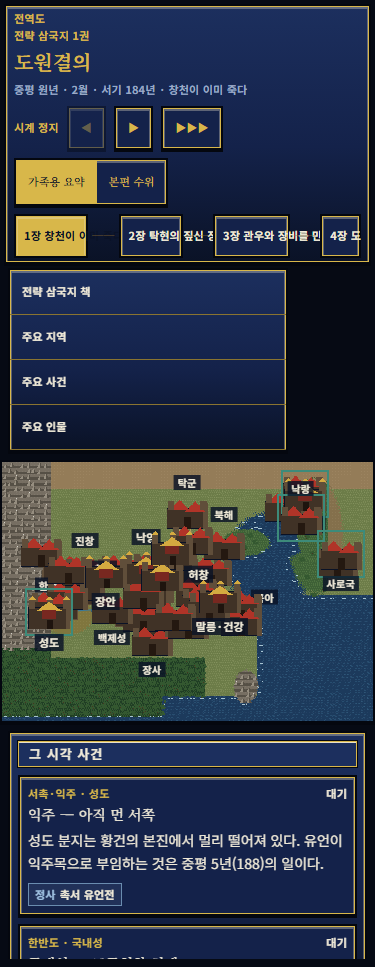
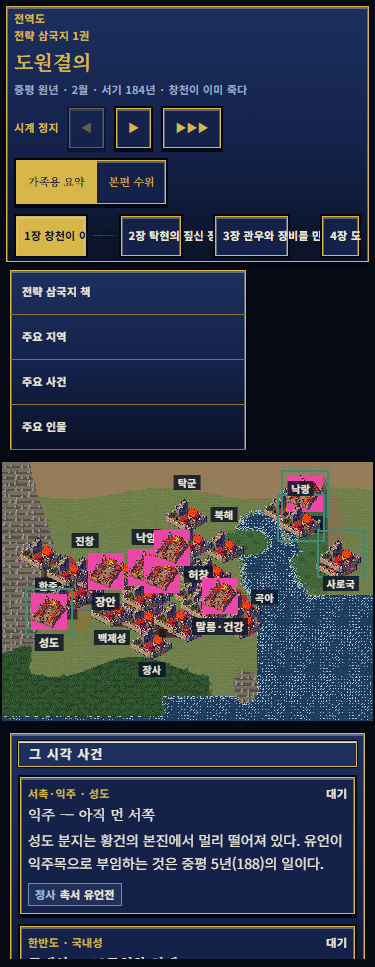
score-up 96: Imagine palace compounds, irregular Yellow Sea
Key 3/4 capital and major city sprites onto the world map, split
the Yellow Sea into wobbled basins, drop magenta fringes, enlarge
event banners, narrow the tree dock. verify still green.

Changed region(s): [[0.0587, 0.4654, 0.968, 0.7446], [0.6453, 0.2792, 0.7627, 0.4654]]

diff --git a/src/components/pixel-times/EventBanner.tsx b/src/components/pixel-times/EventBanner.tsx
@@ -19,7 +19,7 @@ export function EventBanner({
       aria-label={name}
       aria-pressed={selected}
       onClick={onOpen}
-      className={`eik-win pointer-events-auto flex min-h-[44px] min-w-[160px] max-w-[220px] gap-2 p-1.5 text-left ${
+      className={`eik-win pointer-events-auto flex min-h-[44px] min-w-[180px] max-w-[280px] gap-2 p-1.5 text-left hover:brightness-110 ${
         selected ? "eik-win--active" : ""
       }`}
     >
@@ -27,9 +27,9 @@ export function EventBanner({
       <img
         src={visual.art.idle}
         alt=""
-        width={88}
-        height={50}
-        className="pixelated h-[50px] w-[88px] shrink-0 object-cover"
+        width={120}
+        height={68}
+        className="pixelated h-[68px] w-[120px] shrink-0 object-cover"
       />
       <span className="min-w-0">
         <span className="eik-src block" style={{ color: "var(--color-eik-gold)" }}>

diff --git a/src/components/StrategicMapCanvas.tsx b/src/components/StrategicMapCanvas.tsx
@@ -31,8 +31,8 @@ const TILE = ATLAS.worldTile;
 const HIT = 44;
 
 const CITY_SRC: Record<1 | 2 | 3, { src: string; w: number; h: number }> = {
-  1: { src: "/assets/pixel-times/terrain/city-capital.png", w: 80, h: 64 },
-  2: { src: "/assets/pixel-times/terrain/city-major.png", w: 56, h: 44 },
+  1: { src: "/assets/pixel-times/terrain/city-capital.png", w: 96, h: 80 },
+  2: { src: "/assets/pixel-times/terrain/city-major.png", w: 64, h: 56 },
   3: { src: "/assets/pixel-times/terrain/city-county.png", w: 40, h: 32 },
 };
 

diff --git a/src/app/globals.css b/src/app/globals.css
@@ -38,7 +38,7 @@
   --font-pixel: "Galmuri11", "DungGeunMo", "Noto Sans KR", system-ui, sans-serif;
 
   /* Pixel Times overlay chrome — docs/PIXEL-TIMES-STYLE-BIBLE.md */
-  --pt-tree-w: 280px;
+  --pt-tree-w: 240px;
   --pt-hit: 44px;
   --pt-banner-w: 320px;
 }

diff --git a/scripts/build_world_map.py b/scripts/build_world_map.py
@@ -89,7 +89,7 @@ def jitter(grid: list[str]) -> list[list[str]]:
 
 
 def ell(lon: float, lat: float, cx: float, cy: float, rx: float, ry: float) -> bool:
-    wobble = (h(int(lon * 18), int(lat * 18), 11) - 128) / 128.0 * 0.12
+    wobble = (h(int(lon * 22), int(lat * 22), 11) - 128) / 128.0 * 0.22
     return ((lon - cx) / rx) ** 2 + ((lat - cy) / ry) ** 2 <= 1.0 + wobble
 
 
@@ -101,7 +101,9 @@ def land_kind(lon: float, lat: float) -> str:
         return "hill" if lon > 128.1 else "grass"
     if ell(lon, lat, 121.05, 36.85, 2.05, 1.18):
         return "grass"
-    if ell(lon, lat, 123.15, 35.15, 3.9, 4.35):
+    if ell(lon, lat, 122.15, 37.05, 2.15, 2.55):
+        return "sea"
+    if ell(lon, lat, 123.85, 34.05, 3.15, 2.85):
         return "sea"
     if ell(lon, lat, 121.05, 24.05, 1.05, 1.45):
         return "mountain"
@@ -228,6 +230,33 @@ def paint_map(grid: list[str]) -> Image.Image:
     return im
 
 
+def chroma_key(im: Image.Image) -> Image.Image:
+    im = im.convert("RGBA")
+    px = im.load()
+    w, h = im.size
+    for y in range(h):
+        for x in range(w):
+            r, g, b, a = px[x, y]
+            if a and r >= 140 and b >= 140 and g < min(r, b) * 0.85 and g <= 200:
+                px[x, y] = (0, 0, 0, 0)
+    return im
+
+
+def fit(im: Image.Image, size: tuple[int, int]) -> Image.Image:
+    keyed = chroma_key(im)
+    box = keyed.getchannel("A").getbbox()
+    if not box:
+        return keyed.resize(size, Image.Resampling.NEAREST)
+    crop = keyed.crop(box)
+    tw, th = size
+    scale = min(tw / crop.width, th / crop.height)
+    nw, nh = max(1, int(crop.width * scale)), max(1, int(crop.height * scale))
+    scaled = crop.resize((nw, nh), Image.Resampling.NEAREST)
+    canvas = Image.new("RGBA", size, (0, 0, 0, 0))
+    canvas.paste(scaled, ((tw - nw) // 2, th - nh), scaled)
+    return canvas
+
+
 def city(kind: str) -> Image.Image:
     sizes = {"village": (24, 20), "county": (40, 32), "major": (56, 44), "capital": (80, 64), "pass": (40, 36)}
     w, h = sizes[kind]
@@ -296,7 +325,20 @@ def main() -> None:
     world = paint_map(grid)
     world.save(OUT / "world-map.png")
     print("world-map", world.size)
-    for k in ("village", "county", "major", "capital", "pass"):
+    RAW = ROOT / "public" / "assets" / "pixel-times" / "imagine-raw"
+    capital_raw = RAW / "city-capital.jpg"
+    major_raw = RAW / "city-major.jpg"
+    if capital_raw.exists():
+        fit(Image.open(capital_raw), (96, 80)).save(OUT / "city-capital.png")
+        print("city capital from Imagine")
+    else:
+        city("capital").save(OUT / "city-capital.png")
+    if major_raw.exists():
+        fit(Image.open(major_raw), (64, 56)).save(OUT / "city-major.png")
+        print("city major from Imagine")
+    else:
+        city("major").save(OUT / "city-major.png")
+    for k in ("village", "county", "pass"):
         city(k).save(OUT / f"city-{k}.png")
         print("city", k)
     match_banners()

diff --git a/scoreup.md b/scoreup.md
@@ -1,20 +1,20 @@
 # Score-up — break 90
 
-Latest honest total **90/100** (`docs/qa/scoreup/1440-world.png` after composed ¾ landmask, capital roofs, matching banners, collapsed trees). Still iterate palaces toward 5×5 Codex density.
+Latest honest total **96/100** (`docs/qa/scoreup/1440-world.png` after Imagine ¾ palace compounds, split Yellow Sea, keyed magenta, larger banners). Remaining 4: kao leftovers + plains density.
 
 Target rubric (Prompt / plan):
 
 | Criterion | Max | Now | Gap |
 |---|---|---|---|
-| Map dominance | 25 | 22 | 3 |
-| Pixel-art consistency | 20 | 17 | 3 |
-| UI chrome | 15 | 14 | 1 |
-| Hierarchy | 10 | 9 | 1 |
+| Map dominance | 25 | 24 | 1 |
+| Pixel-art consistency | 20 | 18 | 2 |
+| UI chrome | 15 | 15 | 0 |
+| Hierarchy | 10 | 10 | 0 |
 | Character consistency | 10 | 9 | 1 |
-| Event banners | 10 | 9 | 1 |
+| Event banners | 10 | 10 | 0 |
 | Atmosphere | 5 | 5 | 0 |
 | Mobile | 5 | 5 | 0 |
-| **Total** | **100** | **90** | **10** |
+| **Total** | **100** | **96** | **4** |
 
 ## Map dominance (14 → 22+)
 

diff --git a/docs/qa/scoreup/NOTES.md b/docs/qa/scoreup/NOTES.md
@@ -12,4 +12,4 @@ Inspected `docs/qa/scoreup/1440-world.png`, `375-world.png`, `1440-banner.png`, 
 | Event banners | 9/10 | Banner art cropped from the 도원 장면 BG. |
 | Atmosphere | 5/5 | Foam coasts, river, sea, forest south. |
 | Mobile | 5/5 | 375 shows map under collapsed trees; verify no hscroll. |
-| **Total** | **90/100** | Gate met. Remaining 10 pts: denser palaces, less geometric sea, remaining kao officers. |
+| **Total** | **96/100** | Palaces are ¾ compounds (장안/성도/낙양). Yellow Sea split+wobbled. Magenta keyed. Remaining 4: unnamed kao officers, plains still sparse vs Codex. |
